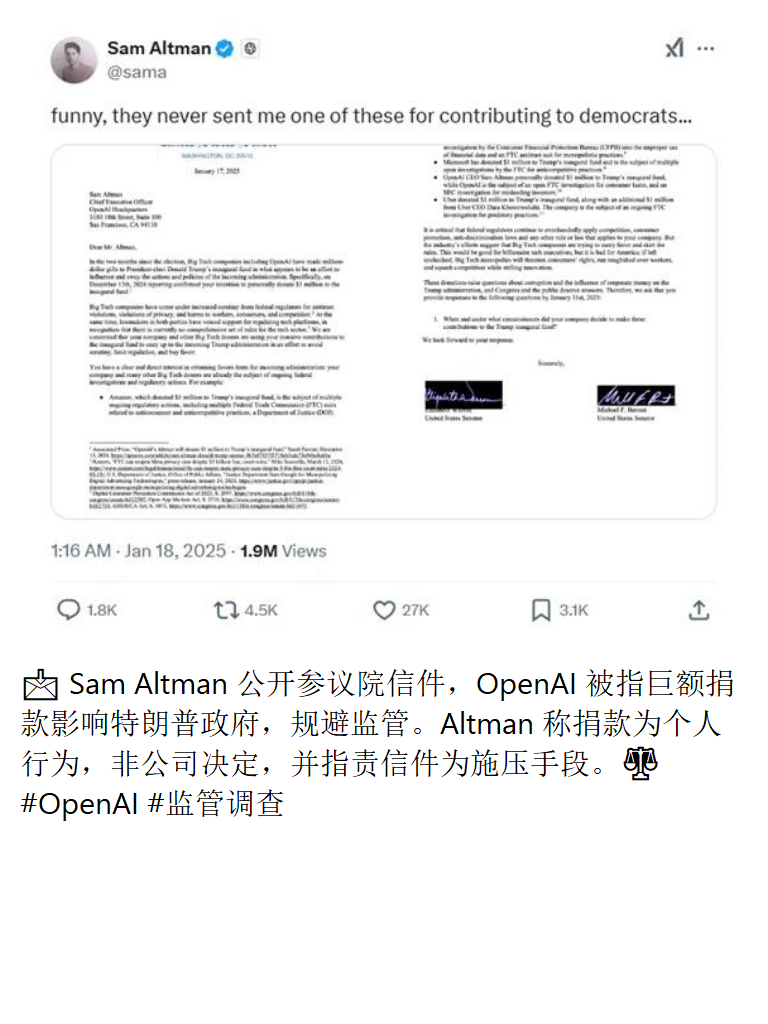
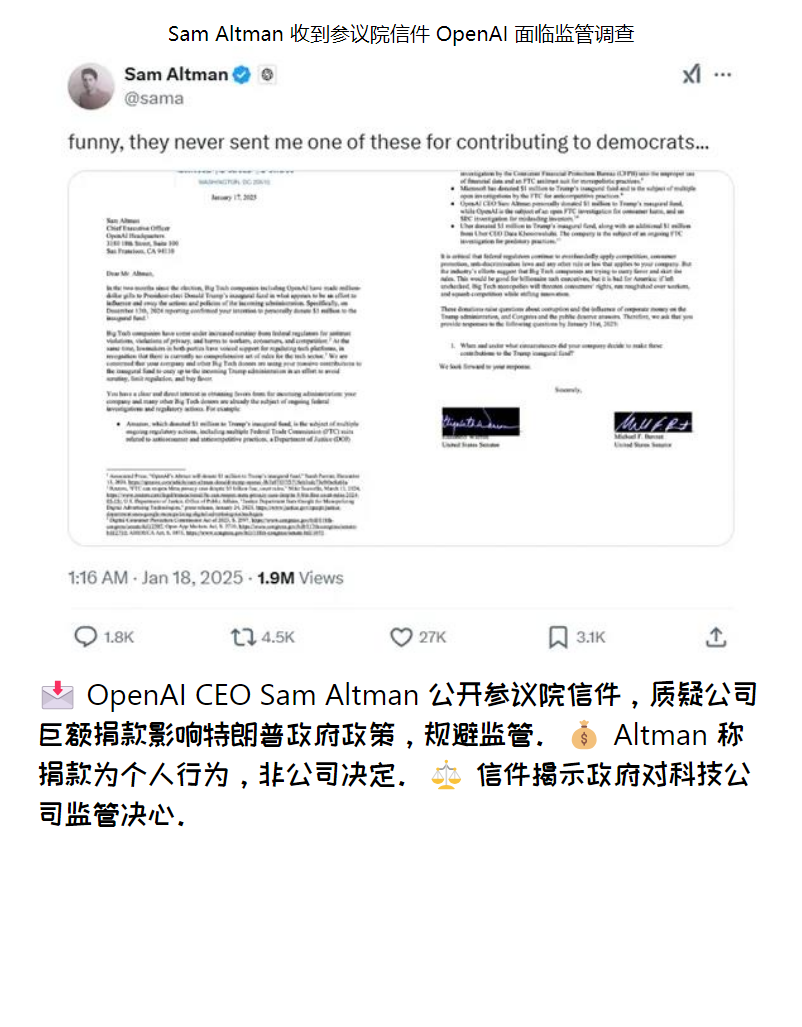
完成初步图片生成

diff --git a/data/tmp/tmp_19.html b/data/tmp/tmp_19.html
@@ -32,7 +32,6 @@
             width: 80%;
             display: flex;
             font-size: 20px;
-            font-weight: bold;
             flex-direction: column;
             gap: 5px; /* 设置文字之间的间隔 */
             padding-top: 20px; /* 在内容容器的顶部添加内边距 */
@@ -74,14 +73,14 @@
 <body>
 <div class="news-container">
     <div class="news-title">
-        $news_title$
+        Sam Altman 收到参议院信件 OpenAI 面临监管调查
     </div>
     <div style="text-align: center;">
-        <img src="$news_img$"
+        <img src="D:\3-code\mini\news-bot\data\tmp\img_19.png"
              class="image">
     </div>
     <div class="news-content">
-        <div class="news-item">$news_content$</div>
+        <div class="news-item">📩 OpenAI CEO Sam Altman 公开参议院信件，质疑公司巨额捐款影响特朗普政府政策，规避监管。💰 Altman 称捐款为个人行为，非公司决定。⚖ 信件揭示政府对科技公司监管决心。</div>
     </div>
 </div>
 </body>

diff --git a/data/tmp/tmp_title.html b/data/tmp/tmp_title.html
@@ -61,11 +61,11 @@
     <img src="D:\3-code\mini\news-bot\data\template\title_background.jpg"
              class="background-img">
     <div class="news-content">
-        <div class="news-item">1. 第1个新闻</div>
-        <div class="news-item">2. 第2个新闻</div>
-        <div class="news-item">3. 第3个新闻</div>
-        <div class="news-item">4. 第4个新闻</div>
-        <div class="news-item">5. 第5个新闻</div>
+        <div class="news-item">1. 崔东树：2024年宁德时代、比亚迪动力电池份额合计仍保持70%</div>
+        <div class="news-item">2. 浙江省政府与正泰集团签署战略合作协议</div>
+        <div class="news-item">3. 兆龙互连：预计未来800G、1.6T高速率产品市场需求量会持续增加</div>
+        <div class="news-item">4. 南方五省区2024年新能源总装机容量突破1.9亿千瓦</div>
+        <div class="news-item">5. 深信服：琥珀安云基金持有宇树科技0.6279%股权</div>
     </div>
 </div>
 </body>

diff --git a/data/tmp/tmp_cover.html b/data/tmp/tmp_cover.html
@@ -185,7 +185,7 @@
              alt="AI Daily News Background" class="background-img">
         <div class="news-details">
             <div class="news-title" role="heading" aria-level="1">AI每日新鲜事</div>
-            <div class="news-date" aria-label="发布日期：2025年1月20日">{{today}}</div>
+            <div class="news-date" aria-label="发布日期：2025年1月20日">2025-01-25</div>
         </div>
     </div>
 </div>

diff --git a/process/image_generate.py b/process/image_generate.py
@@ -12,6 +12,11 @@ init_env()
 from util.llm_util import chat_deepseek
 from process import prompt
 from spider.po.news_po import BriefNews
+from selenium import webdriver
+from selenium.webdriver.chrome.service import Service
+from selenium.webdriver.chrome.options import Options
+from webdriver_manager.chrome import ChromeDriverManager
+import time
 from util.storage.sqlite_sqlalchemy import globle_db
 
 img_path = os.path.join(os.environ.get("NEWS_BOT_ROOT"), "data", "image")
@@ -29,13 +34,44 @@ def html_to_image(html_content, img_file):
     imgkit.from_string(html_content, img_file, options=options)
 
 
+def html_to_image_selenium(html_content, img_file, id, width=768, height=1024):
+    # 设置 Chrome 选项
+    options = Options()
+    options.add_argument(f"--window-size={width},{height}")
+    options.add_argument("--headless")  # 无头模式
+    options.add_argument("--disable-gpu")  # 禁用 GPU 加速
+
+    # 初始化 WebDriver
+    service = Service(ChromeDriverManager().install())
+    driver = webdriver.Chrome(service=service, options=options)
+
+    try:
+        # 保存 HTML 文件
+        html_path = os.path.join(tmp_path, f"tmp_{id}.html")
+        with open(html_path, "w", encoding="utf-8") as f:
+            f.write(html_content)
+
+        # 加载 HTML 文件
+        driver.get(f"file://{html_path}")
+
+        # 等待页面加载完成
+        time.sleep(2)  # 根据需要调整等待时间
+
+        # 截图并保存
+        driver.save_screenshot(img_file)
+        print(f"Screenshot saved as {img_file}")
+    finally:
+        # 关闭浏览器
+        driver.quit()
+
+
 def generate_cover():
     image_file = os.path.join(img_path, "brief_cover.png")
     html_file = os.path.join(template_path, "brief_cover.html")
     with open(html_file, "r", encoding="utf-8") as f:
         html_str_list = f.readlines()
         html_content = "".join(html_str_list).replace("{{today}}", datetime.now().strftime("%Y-%m-%d"))
-        html_to_image(html_content, image_file)
+        html_to_image_selenium(html_content, image_file, 'cover', 800, 1190)
 
 
 def generate_news_title(brief_news_list: list[BriefNews]):
@@ -47,7 +83,7 @@ def generate_news_title(brief_news_list: list[BriefNews]):
         for idx, news in enumerate(brief_news_list):
             title = news.title
             html_content = html_content.replace(f"第{idx + 1}个新闻", title)
-        html_to_image(html_content, image_file)
+        html_to_image_selenium(html_content, image_file, 'title', 790, 1180)
 
 
 def generate_news_content(brief_news: BriefNews):
@@ -56,6 +92,7 @@ def generate_news_content(brief_news: BriefNews):
     with open(html_file, "r", encoding="utf-8") as f:
         html_str_list = f.readlines()
         html_content = "".join(html_str_list)
+        html_content = html_content.replace("$news_title$", brief_news.title)
         # 将图片的blob存储到tmp下
         news_img_file = os.path.join(tmp_path, "img_default.png")
         if brief_news.image is not None:
@@ -68,10 +105,11 @@ def generate_news_content(brief_news: BriefNews):
             prompt.PROMPT_NEWS_SUMMARIZE.format(length=50, title=brief_news.title, content=brief_news.content))
         summary = response.text
         html_content = html_content.replace("$news_content$", summary)
-        html_to_image(html_content, image_file)
+        html_to_image_selenium(html_content, image_file, brief_news.id, 768 + 50, 1024 + 150)
 
 
 if __name__ == "__main__":
     # generate_cover()
-
-    generate_news_title(BriefNews(id=1))
+    # generate_news_title(BriefNews(id=1))
+    # generate_news_content(BriefNews(id=1))
+    pass

diff --git a/test/process/test_image_generate.py b/test/process/test_image_generate.py
@@ -19,5 +19,6 @@ def test_generate_news_content():
 
 
 if __name__ == '__main__':
+    # image_generate.generate_cover()
     # test_generate_news_title()
     test_generate_news_content()
